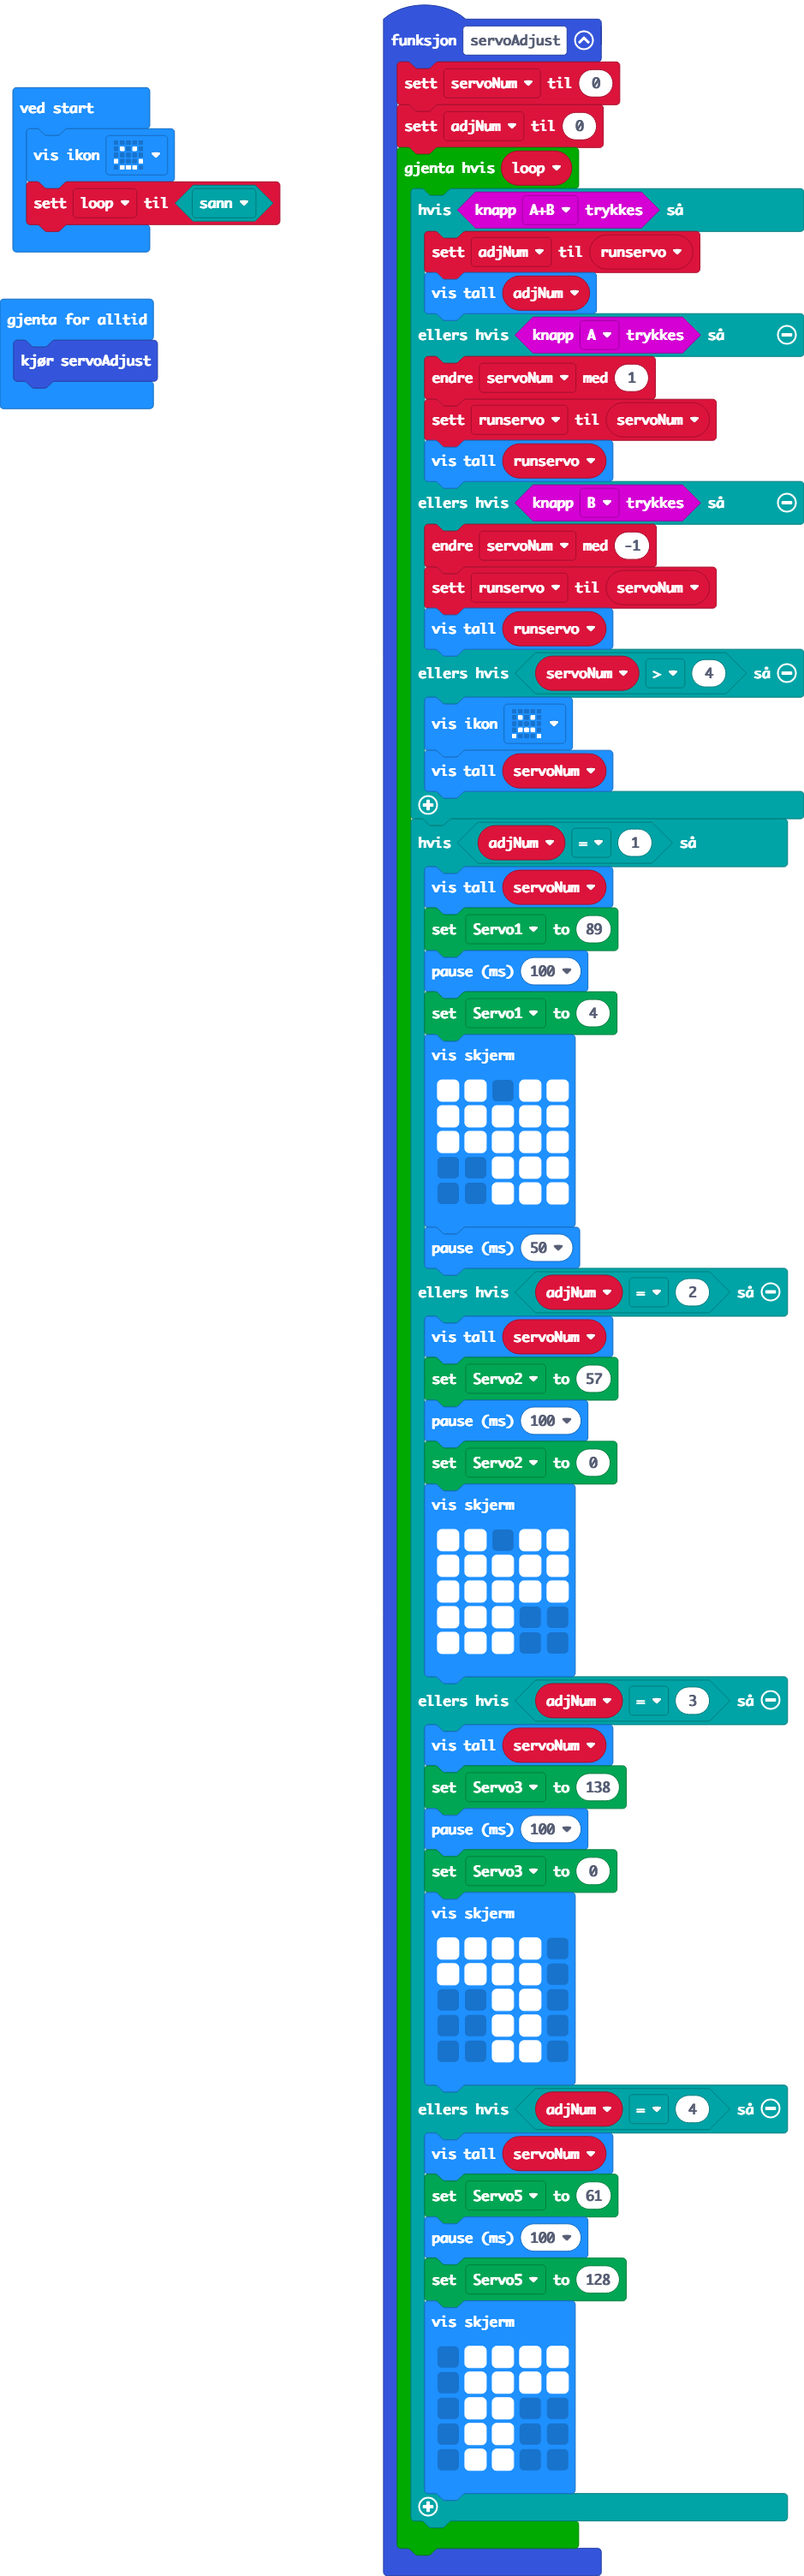
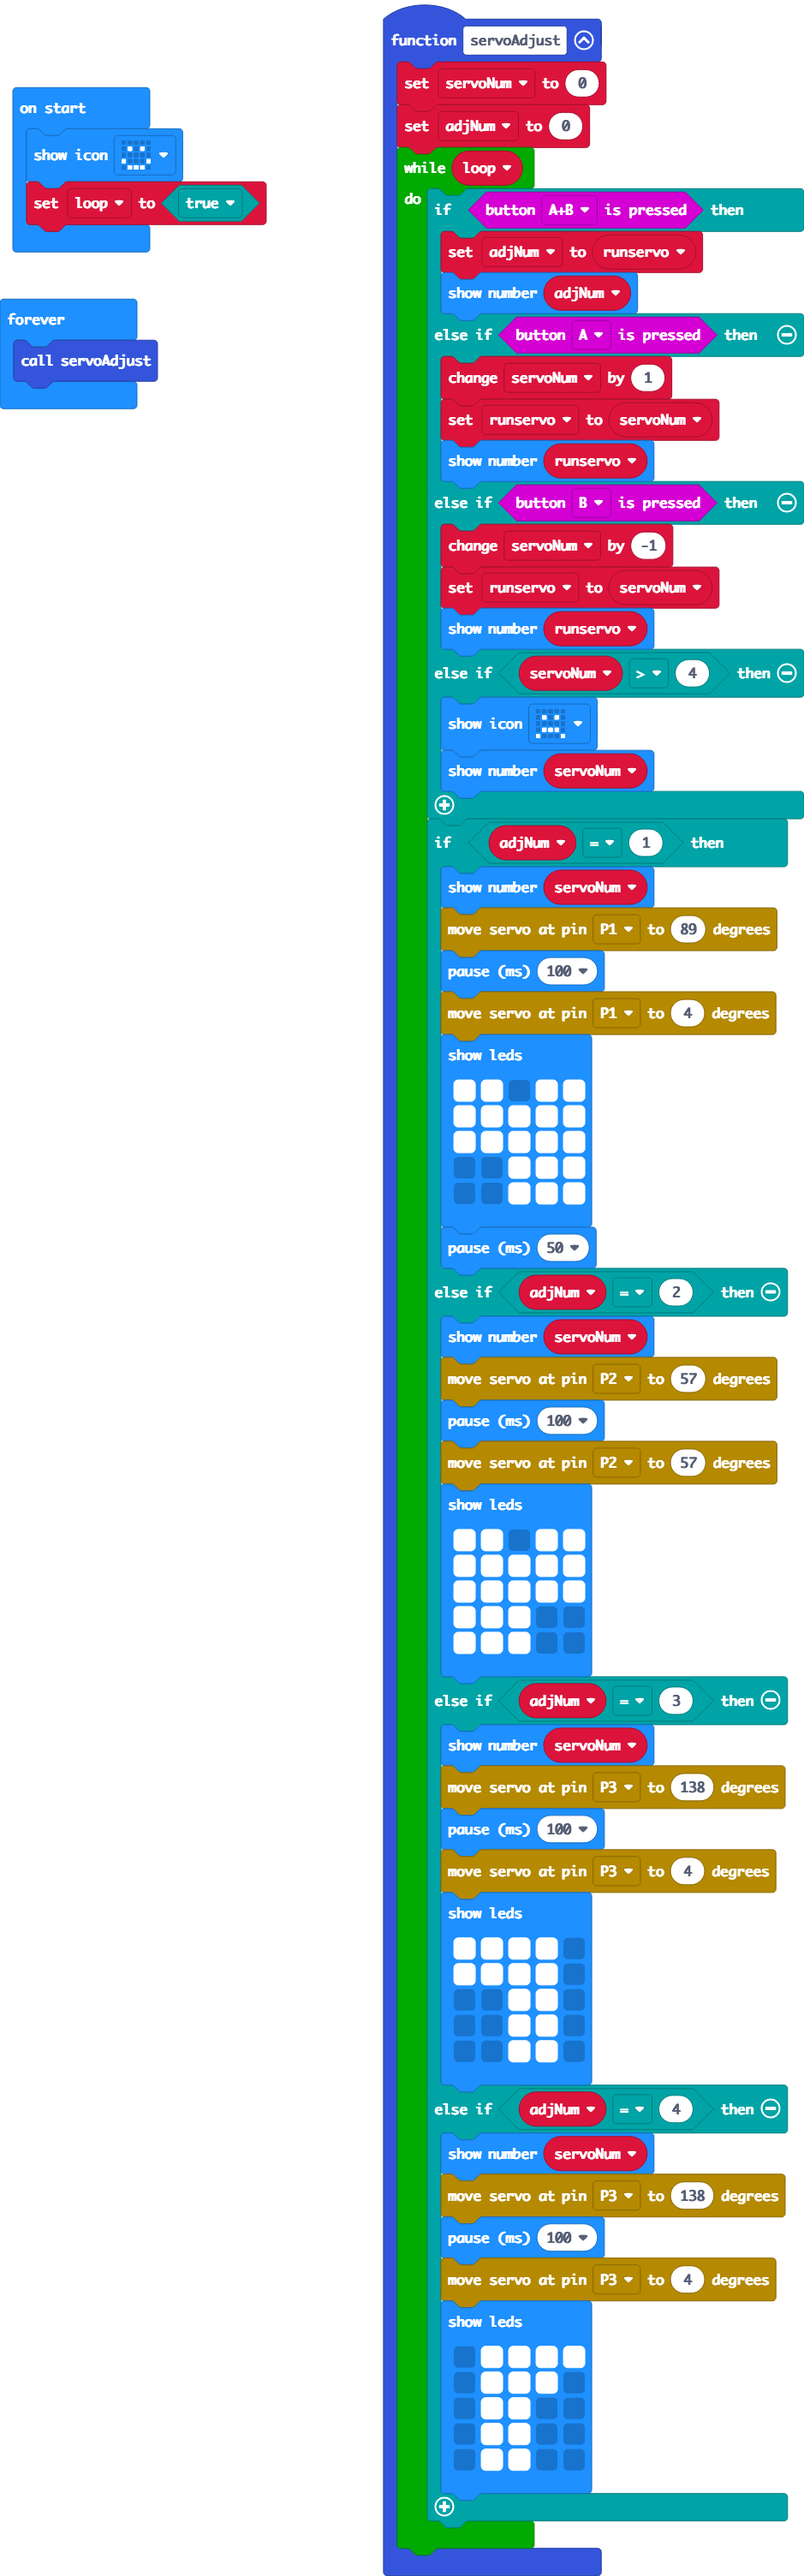
Update pxt.json, main.blocks, main.ts

diff --git a/main.ts b/main.ts
@@ -19,9 +19,9 @@ function servoAdjust () {
         }
         if (adjNum == 1) {
             basic.showNumber(servoNum)
-            kitronik_i2c_16_servo.servoWrite(kitronik_i2c_16_servo.Servos.Servo1, 89)
+            UDriver_PCA9685.move_servo(UDriver_PCA9685.Pin.P1, 89)
             basic.pause(100)
-            kitronik_i2c_16_servo.servoWrite(kitronik_i2c_16_servo.Servos.Servo1, 4)
+            UDriver_PCA9685.move_servo(UDriver_PCA9685.Pin.P1, 4)
             basic.showLeds(`
                 # # . # #
                 # # # # #
@@ -32,9 +32,9 @@ function servoAdjust () {
             basic.pause(50)
         } else if (adjNum == 2) {
             basic.showNumber(servoNum)
-            kitronik_i2c_16_servo.servoWrite(kitronik_i2c_16_servo.Servos.Servo2, 57)
+            UDriver_PCA9685.move_servo(UDriver_PCA9685.Pin.P2, 57)
             basic.pause(100)
-            kitronik_i2c_16_servo.servoWrite(kitronik_i2c_16_servo.Servos.Servo2, 0)
+            UDriver_PCA9685.move_servo(UDriver_PCA9685.Pin.P2, 57)
             basic.showLeds(`
                 # # . # #
                 # # # # #
@@ -44,9 +44,9 @@ function servoAdjust () {
                 `)
         } else if (adjNum == 3) {
             basic.showNumber(servoNum)
-            kitronik_i2c_16_servo.servoWrite(kitronik_i2c_16_servo.Servos.Servo3, 138)
+            UDriver_PCA9685.move_servo(UDriver_PCA9685.Pin.P3, 138)
             basic.pause(100)
-            kitronik_i2c_16_servo.servoWrite(kitronik_i2c_16_servo.Servos.Servo3, 0)
+            UDriver_PCA9685.move_servo(UDriver_PCA9685.Pin.P3, 4)
             basic.showLeds(`
                 # # # # .
                 # # # # .
@@ -56,12 +56,12 @@ function servoAdjust () {
                 `)
         } else if (adjNum == 4) {
             basic.showNumber(servoNum)
-            kitronik_i2c_16_servo.servoWrite(kitronik_i2c_16_servo.Servos.Servo5, 61)
+            UDriver_PCA9685.move_servo(UDriver_PCA9685.Pin.P3, 138)
             basic.pause(100)
-            kitronik_i2c_16_servo.servoWrite(kitronik_i2c_16_servo.Servos.Servo5, 128)
+            UDriver_PCA9685.move_servo(UDriver_PCA9685.Pin.P3, 4)
             basic.showLeds(`
                 . # # # #
-                . # # # #
+                . # # # .
                 . # # . .
                 . # # . .
                 . # # . .
